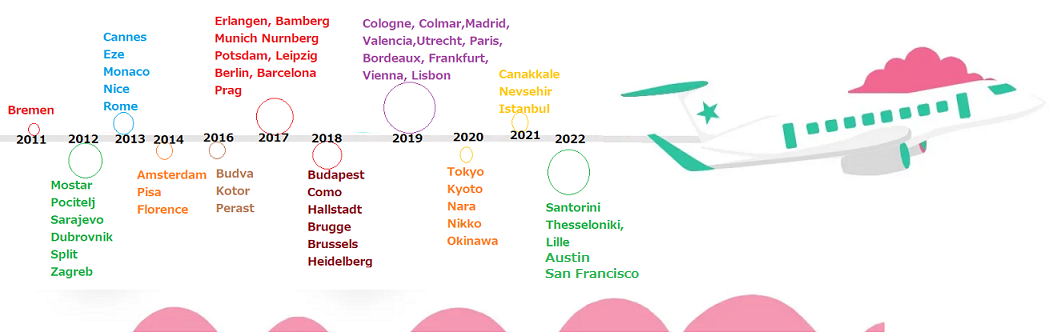
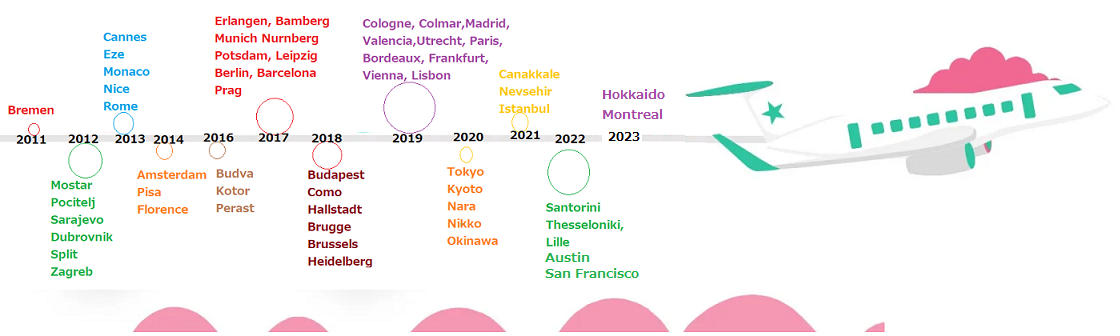
no message

diff --git a/canada.html b/canada.html
@@ -40,7 +40,7 @@
 								<li class="nav-item active"><a class="nav-link" href="index.html">Home</a></li><li class="nav-item active"><a class="nav-link" href="moreaboutme.html">More About Me</a></li>  															
 								<li class="nav-item active"><a class="nav-link" href="technical.html">Technical Context</a></li> 
 								<li class="nav-item active"><a class="nav-link" href="conferences.html">Public Speaking</a></li> 	
-								<li class="nav-item active"><a class="nav-link" href="travel.html">Travel</a></li> 										
+								<li class="nav-item active"><a class="nav-link" href="travel.html">Travel</a></li> 									
 							</ul>
 						</div> 
 					</div>
@@ -49,57 +49,32 @@
         </header>
         <!--================Header Menu Area =================-->
         
-        <!--================Home Banner Area =================-->
-        <section class="home_banner_area">
-           	<div class="container box_1620">
-           		<div class="banner_inner d-flex align-items-center">
-					<div class="banner_content">
-						<h3>My Travel Map</h3>	
-						<div class="media">
-							<div class="media-body">
-								<div class="personal_text">
-									Let's have a virtual travel: 	
-									<ul class="ftco-social mt-3">
-										<a href="turkey.html"> <img src="img\travel\icon_turkey.png" style="width: 30px; height: 30px;"> </a>
-										<a href="germany.html"> <img src="img\travel\icon_ger.png" style="width: 30px; height: 30px;"> </a>
-										<a href="bosnia.html"> <img src="img\travel\icon_bosnia.png" style="width: 30px; height: 30px;"> </a>
-										<a href="croatia.html"> <img src="img\travel\icon_croatia.png" style="width: 30px; height: 30px;"> </a>
-										<a href="france.html"> <img src="img\travel\icon_france.png" style="width: 30px; height: 30px;"> </a>
-										<a href="italy.html"> <img src="img\travel\icon_italy.png" style="width: 30px; height: 30px;"> </a>
-										<a href="holland.html"> <img src="img\travel\icon_holland.png" style="width: 30px; height: 30px;"> </a>
-										<a href="montenegro.html"> <img src="img\travel\icon_montenegro.png" style="width: 30px; height: 30px;"> </a>
-										<a href="spain.html"> <img src="img\travel\icon_spain.png" style="width: 30px; height: 30px;"> </a>
-										<a href="czech.html"> <img src="img\travel\icon_czech.png" style="width: 30px; height: 30px;"> </a>
-										<a href="hungary.html"> <img src="img\travel\icon_hungary.png" style="width: 30px; height: 30px;"> </a>
-										<a href="austria.html"> <img src="img\travel\icon_austria.png" style="width: 30px; height: 30px;"> </a>
-										<a href="belgium.html"> <img src="img\travel\icon_belgium.png" style="width: 30px; height: 30px;"> </a>
-										<a href="portugal.html"> <img src="img\travel\icon_portugal.png" style="width: 30px; height: 30px;"> </a>
-										<a href="japan.html"> <img src="img\travel\icon-japan.jpg" style="width: 30px; height: 30px;"> </a>
-										<a href="greece.html"> <img src="img\travel\icon_greece.png" style="width: 30px; height: 30px;"> </a>
-										<a href="usa.html"> <img src="img\travel\icon_usa.png" style="width: 30px; height: 30px;"> </a>
-										<a href="canada.html"> <img src="img\travel\icon_canada.png" style="width: 30px; height: 30px;"> </a>
-									</ul>												
-								</div>
-							</div>
-						</div>							
 
-						<div class="media">
-							<div class="d-flex">								
-								<img src="img\travel\travel_map.png" alt="">								
-							</div>	
-					
-						</div>
-						<div class="media">
-							<div class="d-flex">																
-								<img src="img\travel\travel_timeline2.png" alt="">
-							</div>	
-					
+        
+        <section class="home_banner_area">
+        <!-- Start Sample Area -->
+			<section class="sample-text-area">
+				<div class="container"></div>
+			
+			<!-- End Sample Area -->
+			<!-- Start Align Area -->
+			<div class="whole-wrap">
+				<div class="container">
+					<div class="section-top-border">						
+						<div class="row gallery-item">
+							<div class="col-md-4">
+								<a href="img/travel/travel_montreal.jpg" class="img-gal"><div class="single-gallery-image" style="background: url(img/travel/travel_montreal.jpg);"></div></a>
+								Montreal
+							</div>																	
 						</div>
 					</div>
 				</div>
-            </div>
-        </section>
-        <!--================End Home Banner Area =================-->
+			</div>
+			<!-- End Align Area -->
+        
+       </section>
+	   </section>
+        
         
         
         
@@ -111,7 +86,7 @@
         <script src="js/stellar.js"></script>
         <script src="vendors/lightbox/simpleLightbox.min.js"></script>
         <script src="vendors/nice-select/js/jquery.nice-select.min.js"></script>
-        <script src="vendors/isotope/img\travelloaded.pkgd.min.js"></script>
+        <script src="vendors/isotope/imagesloaded.pkgd.min.js"></script>
         <script src="vendors/isotope/isotope.pkgd.min.js"></script>
         <script src="vendors/owl-carousel/owl.carousel.min.js"></script>
         <script src="vendors/popup/jquery.magnific-popup.min.js"></script>

diff --git a/conferences.html b/conferences.html
@@ -55,10 +55,7 @@
 				<div class="banner_content">					
 					<h1>Conferences</h1>						
 						<h2>Upcoming</h2>				
-						<ul class="ftco-social mt-3">																																																	
-							<a href="stag.html"> <img src="img\conferences\stag.jpeg" style="width: 100px; height: 100px;"> 
-							<a href="developerweek23.html"> <img src="img\conferences\dw.jpg" style="width: 100px; height: 100px;"> </a>
-							<a href="confoo.html"> <img src="img\conferences\confoo.png" style="width: 100px; height: 100px;"> </a>
+						<ul class="ftco-social mt-3">					
 							<a href="jasst.html"> <img src="img\conferences\jasst.png" style="width: 100px; height: 100px;"> </a>
 							<a href="ittage22.html"> <img src="img\conferences\ittage2022.png" style="width: 100px; height: 100px;"> </a>
 							<a href="heisenbug23.html"> <img src="img\conferences\heisenbug.jpg" style="width: 100px; height: 100px;"> </a>
@@ -69,7 +66,9 @@
 						
 						<h2>Given</h2>
 						<ul class="ftco-social mt-3">
-							<img src="img\conferences\2023.png" style="width: 100px; height: 100px;"> 							
+							<img src="img\conferences\2023.png" style="width: 100px; height: 100px;"> 
+							<a href="developerweek23.html"> <img src="img\conferences\dw.jpg" style="width: 100px; height: 100px;"> </a>
+							<a href="confoo.html"> <img src="img\conferences\confoo.png" style="width: 100px; height: 100px;"> </a>							
 							<a href="codegen.html"> <img src="img\conferences\codegen.png" style="width: 100px; height: 100px;"> 
 							<a href="breakfree.html"> <img src="img\conferences\breakfree.png" style="width: 100px; height: 100px;"> </a>
 							<a href="jsworld.html"> <img src="img\conferences\jsworld.png" style="width: 100px; height: 100px;"> </a>
